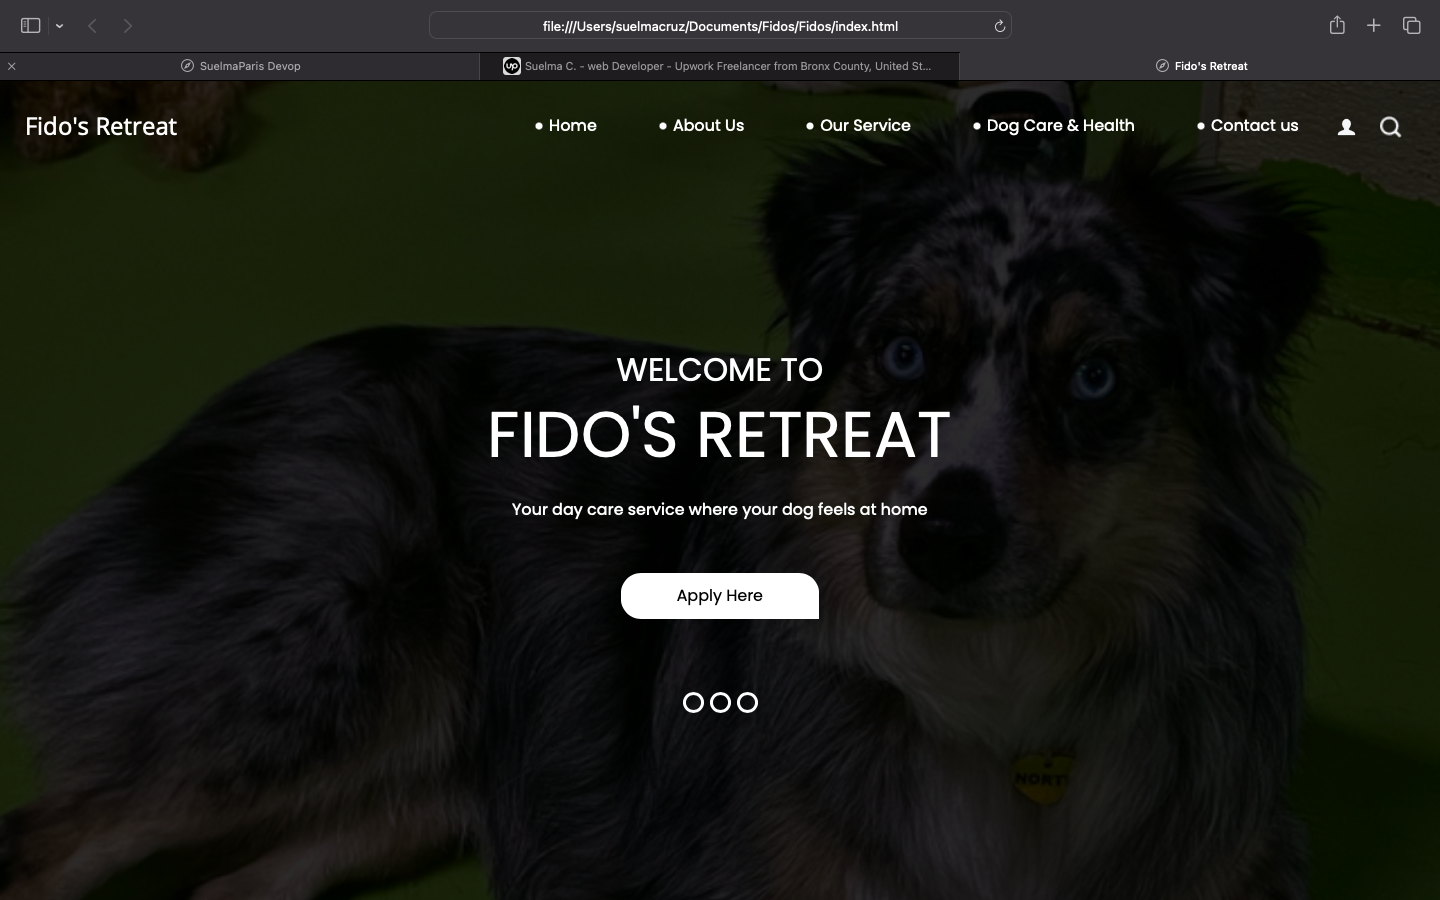
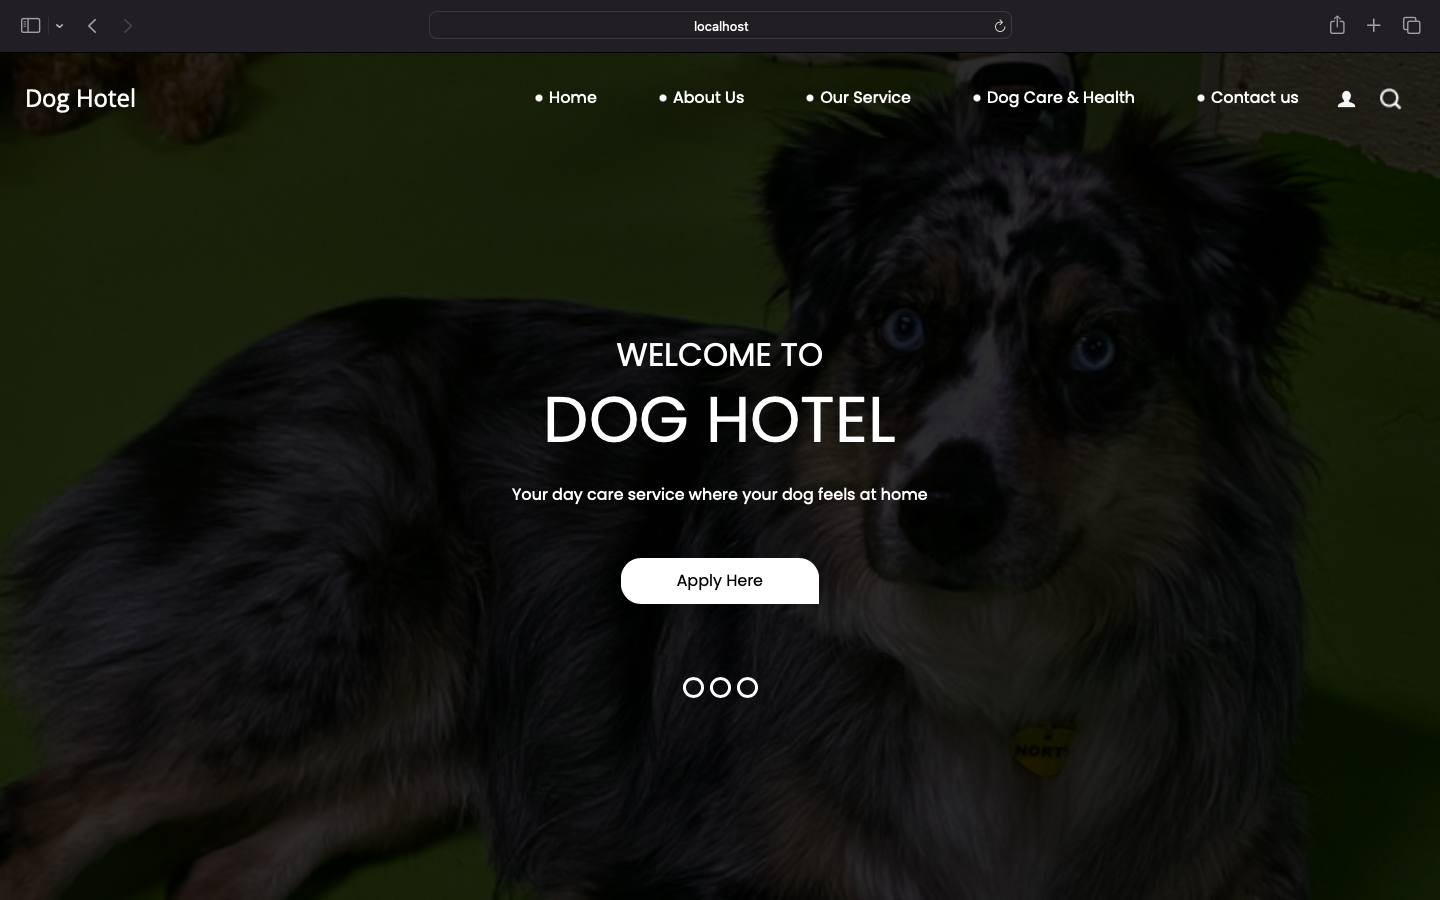
add project

diff --git a/templates/index.html b/templates/index.html
@@ -409,7 +409,7 @@
       <img src="{{ url_for('static', filename='assets/images/portfolio/portfolio-2.png') }}" alt="portfolio 2 image" class="img-fluid">
       <div class="portfolio-info">
         <div class="caption">
-          <h4>Fidos Retreat Doggie Daycare</h4>
+          <h4>Dog Hotel</h4>
           <p>Website</p>
         </div>
       </div>
